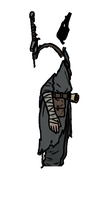
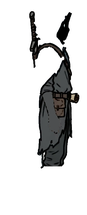
Make the wanderer move naturally; polish the edited art
The owner said the first animation moved "like a rabbit and a robot".
The hop came from a sharp |sin| body bounce, ~9 steps per second and
cartoon squash; the stiffness from one-piece legs swinging like
pendulums, a static arm and abrupt pose changes.

Animation:
- each leg is now a thigh (knee cuff) and a shin that bends at the knee;
  the run cycle swings the thigh and folds the knee only while the leg
  comes forward, at ~5 steps per second (stride 200 px)
- the forearm is cut out of the body (tunic repainted behind it) and
  swings opposite the near leg
- a small smooth dip at each footfall replaces the bounce; lean follows
  speed and acceleration; air poses blend with vertical speed; the knees
  give on landing in proportion to the impact
- player.gd: squash/stretch is now subtle and the landing squash scales
  with fall speed
- art fits the 28x96 hitbox (Rig scale 0.47, shifted 2 px forward)
- wall dust spawns off the wall; dash ghosts keep the swept cloak

Art (from an independent visual review):
- back view: flat cloak repaint with no streaks, fold lines taper,
  anti-aliased outline across the old blade
- front view: one continuous slanted outline where the tip was
- sword: square jagged break instead of an angled point, no light halo
  on the cut-out sprite, close-up runs off the canvas edge

All 34 movement checks pass.

Claude-Session: https://claude.ai/code/session_01XKhykqFuVUnaPYtHm2Rkuc

Changed region(s): [[0.4828, 0.4186, 0.7126, 0.6419]]

diff --git a/game/README.md b/game/README.md
@@ -74,15 +74,15 @@
 
 ## الرحّال المرسوم وحركته
 
-الرحّال في اللعبة مقصوص من ورقة الشخصية (الرسمة من الجنب)، ومقسوم أجزاء: العباءة، والجسم، والرجلين. كل جزء يتحرك لحاله حسب اللي يسويه الرحّال:
+الرحّال في اللعبة مقصوص من ورقة الشخصية (الرسمة من الجنب)، ومقسوم أجزاء: العباءة، والجسم، والساعد، وكل رجل قطعتين (الركبة والساق) عشان تنثني. كل جزء يتحرك لحاله حسب اللي يسويه الرحّال:
 
 | الحركة | وش يصير في الرسمة |
 |---|---|
 | الوقوف | يتنفّس بهدوء، والعيون تلمع لمعة خفيفة |
-| الجري | الرجلين تتحرك بالتناوب، والجسم يرتفع وينزل ويميل لقدّام، والعباءة تتطاير لورا، وغبار مع الخطوات |
+| الجري | خطوات بالتناوب والركبة تنثني لما ترتفع الرجل، والساعد يتحرك عكس الرجل، والجسم ينزل شوي مع كل خطوة ويميل لقدّام، والعباءة تتطاير لورا |
 | القفز | يرفع ركبته، وغبار عند الانطلاق |
 | السقوط | الرجلين تتدلّى، وطرف العباءة يرتفع |
-| النزول على الأرض | ينضغط شوي، وغبار |
+| النزول على الأرض | الركب تنثني والجسم ينخفض لحظة حسب قوة النزول، وغبار |
 | الاندفاع | يميل لقدّام، والعباءة تنسحب لورا، وتطلع ظلال زرقاء وراه |
 | الانزلاق على الجدار | يطالع بعيد عن الجدار، وغبار ينزل مع الجدار |
 
@@ -97,7 +97,7 @@
 3. في الـ **Inspector** (يمين) بتلقى كل أرقام الحركة: سرعة الجري، قوة القفز، الجاذبية، سرعة الاندفاع...
 4. غيّر رقم، واضغط F5، وجرّب.
 5. وفيه مفاتيح للقدرات: **Can Double Jump** و **Can Dash** و **Can Wall Jump**. طفّ واحد منها وشوف كيف تصير الغرفة مستحيلة في مكان معين. هذا بالضبط كيف بتشتغل القدرات في اللعبة الكاملة.
-6. أرقام حركة الرسمة (قوة تحريك الرجلين، ارتفاع الجسم مع الخطوات، ميلانه، سرعة العباءة) في العقدة `Rig` اللي داخل `Body` في `scenes/player.tscn`.
+6. أرقام حركة الرسمة (طول الخطوة، حركة الفخذ، انثناء الركبة، حركة الساعد، نزول الجسم مع الخطوة، الميلان، سرعة العباءة) في العقدة `Rig` اللي داخل `Body` في `scenes/player.tscn`.
 
 لو لقيت أرقام تعجبك، أرسلها لي وأنا أثبّتها في الكود.
 
